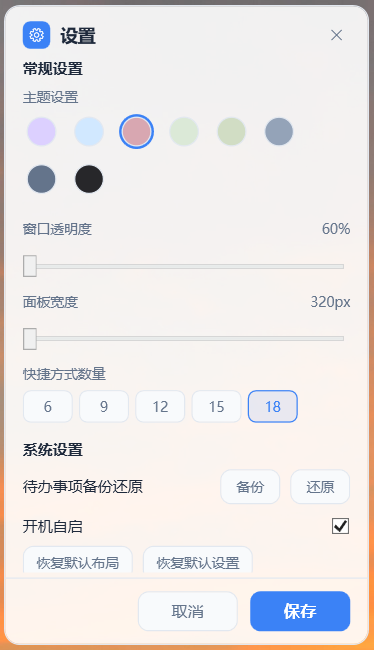
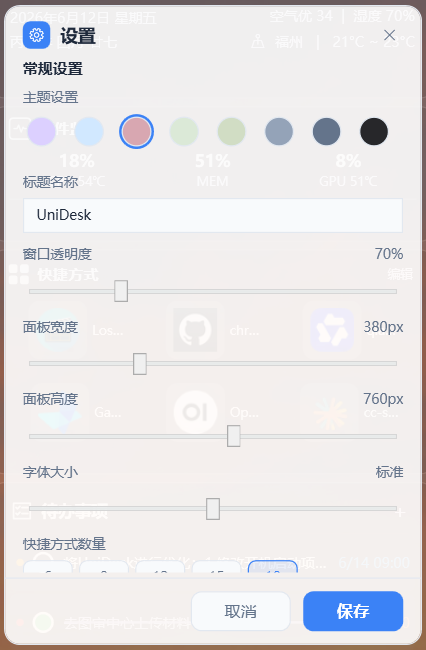
Update README screenshots and feature description

diff --git a/README.md b/README.md
@@ -25,13 +25,13 @@
 
 UniDesk is a compact desktop sidebar for Windows. It stays on the edge of your desktop and keeps daily information, quick actions, lightweight hardware status, and todo items in one themeable panel.
 
-The goal is to provide a calm personal desktop center: always visible when needed, easy to collapse when not needed, and simple enough to run as a daily utility.
+The goal is to provide a calm personal desktop center: always visible when needed, easy to collapse when not needed, flexible enough for different screen sizes, and simple enough to run as a daily utility.
 
 ## Credits
 
 UniDesk is developed based on [Happyeveryweek/LumiDesk](https://github.com/Happyeveryweek/LumiDesk). Thanks to the original author for the idea, foundation, and implementation of the desktop widget experience.
 
-This project keeps the spirit of LumiDesk while adding project rebranding, integrated hardware monitoring, network speed display, updated layout, bilingual documentation, and installer packaging.
+This project keeps the spirit of LumiDesk while adding project rebranding, integrated hardware monitoring, network speed display, updated layout, panel personalization, bilingual documentation, and installer packaging.
 
 ## Features
 
@@ -40,7 +40,8 @@ This project keeps the spirit of LumiDesk while adding project rebranding, integ
 - **Quick Shortcuts**: pin apps, folders, and files for one-click access.
 - **Todo List**: manage tasks with priority, due date, completion state, backup, and restore.
 - **Built-in Calendar**: open a desktop calendar panel with solar and lunar dates.
-- **Personalized Panel**: adjust theme colors, transparency, width, topmost, lock, collapse, and shortcut count.
+- **Personalized Panel**: adjust display title, theme colors, transparency, width, height, font size, topmost, lock, collapse, and shortcut count.
+- **Weather API Settings**: configure weather API host and key from the settings panel.
 - **Local-first Data**: settings, shortcuts, and todos are stored locally.
 
 ## Screenshots
@@ -51,10 +52,16 @@ This project keeps the spirit of LumiDesk while adding project rebranding, integ
   <img src="images/unidesk-main-panel.png" alt="UniDesk main panel" width="360">
 </p>
 
-### Settings
+### Personalization Settings
 
 <p align="center">
-  <img src="images/unidesk-settings-panel.png" alt="UniDesk settings panel" width="360">
+  <img src="images/unidesk-settings-panel.png" alt="UniDesk personalization settings" width="360">
+</p>
+
+### System & Weather API Settings
+
+<p align="center">
+  <img src="images/unidesk-settings-system.png" alt="UniDesk system and weather API settings" width="360">
 </p>
 
 ### Calendar
@@ -86,7 +93,7 @@ Auto location uses the current network exit IP. It usually works well on normal 
 Download the latest installer from [GitHub Releases](https://github.com/SuperDaddyV/UniDesk/releases/latest) and run:
 
 ```powershell
-UniDesk_Setup_1.1.1.exe
+UniDesk_Setup_1.1.4.exe
 ```
 
 System requirements:

diff --git a/README.zh-CN.md b/README.zh-CN.md
@@ -25,13 +25,13 @@
 
 UniDesk 是一个紧凑的 Windows 桌面侧边工具。它可以贴在桌面边缘，常驻显示时间、天气、快捷入口、待办事项和轻量硬件状态。
 
-它的目标不是做一个复杂的桌面管理器，而是提供一个安静、顺手、可长期使用的个人桌面中心：需要时一直可见，不需要时可以收起，样式也能和桌面主题保持一致。
+它的目标不是做一个复杂的桌面管理器，而是提供一个安静、顺手、可长期使用的个人桌面中心：需要时一直可见，不需要时可以收起，也能根据屏幕尺寸和个人偏好调整显示效果。
 
 ## 原项目致谢
 
 UniDesk 基于 [Happyeveryweek/LumiDesk](https://github.com/Happyeveryweek/LumiDesk) 开发。感谢原作者提供的创意、基础代码和桌面小工具体验。
 
-本项目在 LumiDesk 的基础上进行了品牌重命名、硬件监视集成、实时网速显示、布局优化、双语说明文档和安装包发布等扩展。
+本项目在 LumiDesk 的基础上进行了品牌重命名、硬件监视集成、实时网速显示、布局优化、面板个性化、双语说明文档和安装包发布等扩展。
 
 ## 功能亮点
 
@@ -40,7 +40,8 @@ UniDesk 基于 [Happyeveryweek/LumiDesk](https://github.com/Happyeveryweek/LumiD
 - **快捷方式**：把常用应用、文件夹或文件固定到侧边栏，一键打开。
 - **待办事项**：记录待办任务，支持优先级、到期时间、完成状态、备份和还原。
 - **内置日历**：打开桌面日历面板，查看公历和农历日期。
-- **个性化面板**：支持主题颜色、透明度、宽度、置顶、锁定、收起和快捷方式数量设置。
+- **个性化面板**：支持显示标题、主题颜色、透明度、宽度、高度、字体大小、置顶、锁定、收起和快捷方式数量设置。
+- **天气 API 设置**：可以在设置里配置天气 API Host 和 API Key。
 - **本地优先**：设置、快捷方式和待办事项主要保存在本地。
 
 ## 界面截图
@@ -51,10 +52,16 @@ UniDesk 基于 [Happyeveryweek/LumiDesk](https://github.com/Happyeveryweek/LumiD
   <img src="images/unidesk-main-panel.png" alt="UniDesk 主界面" width="360">
 </p>
 
-### 设置面板
+### 个性化设置
 
 <p align="center">
-  <img src="images/unidesk-settings-panel.png" alt="UniDesk 设置面板" width="360">
+  <img src="images/unidesk-settings-panel.png" alt="UniDesk 个性化设置" width="360">
+</p>
+
+### 系统与天气 API 设置
+
+<p align="center">
+  <img src="images/unidesk-settings-system.png" alt="UniDesk 系统与天气 API 设置" width="360">
 </p>
 
 ### 内置日历
@@ -86,7 +93,7 @@ UniDesk 基于 [Happyeveryweek/LumiDesk](https://github.com/Happyeveryweek/LumiD
 从 [GitHub Releases](https://github.com/SuperDaddyV/UniDesk/releases/latest) 下载最新安装包并运行：
 
 ```powershell
-UniDesk_Setup_1.1.1.exe
+UniDesk_Setup_1.1.4.exe
 ```
 
 系统要求：